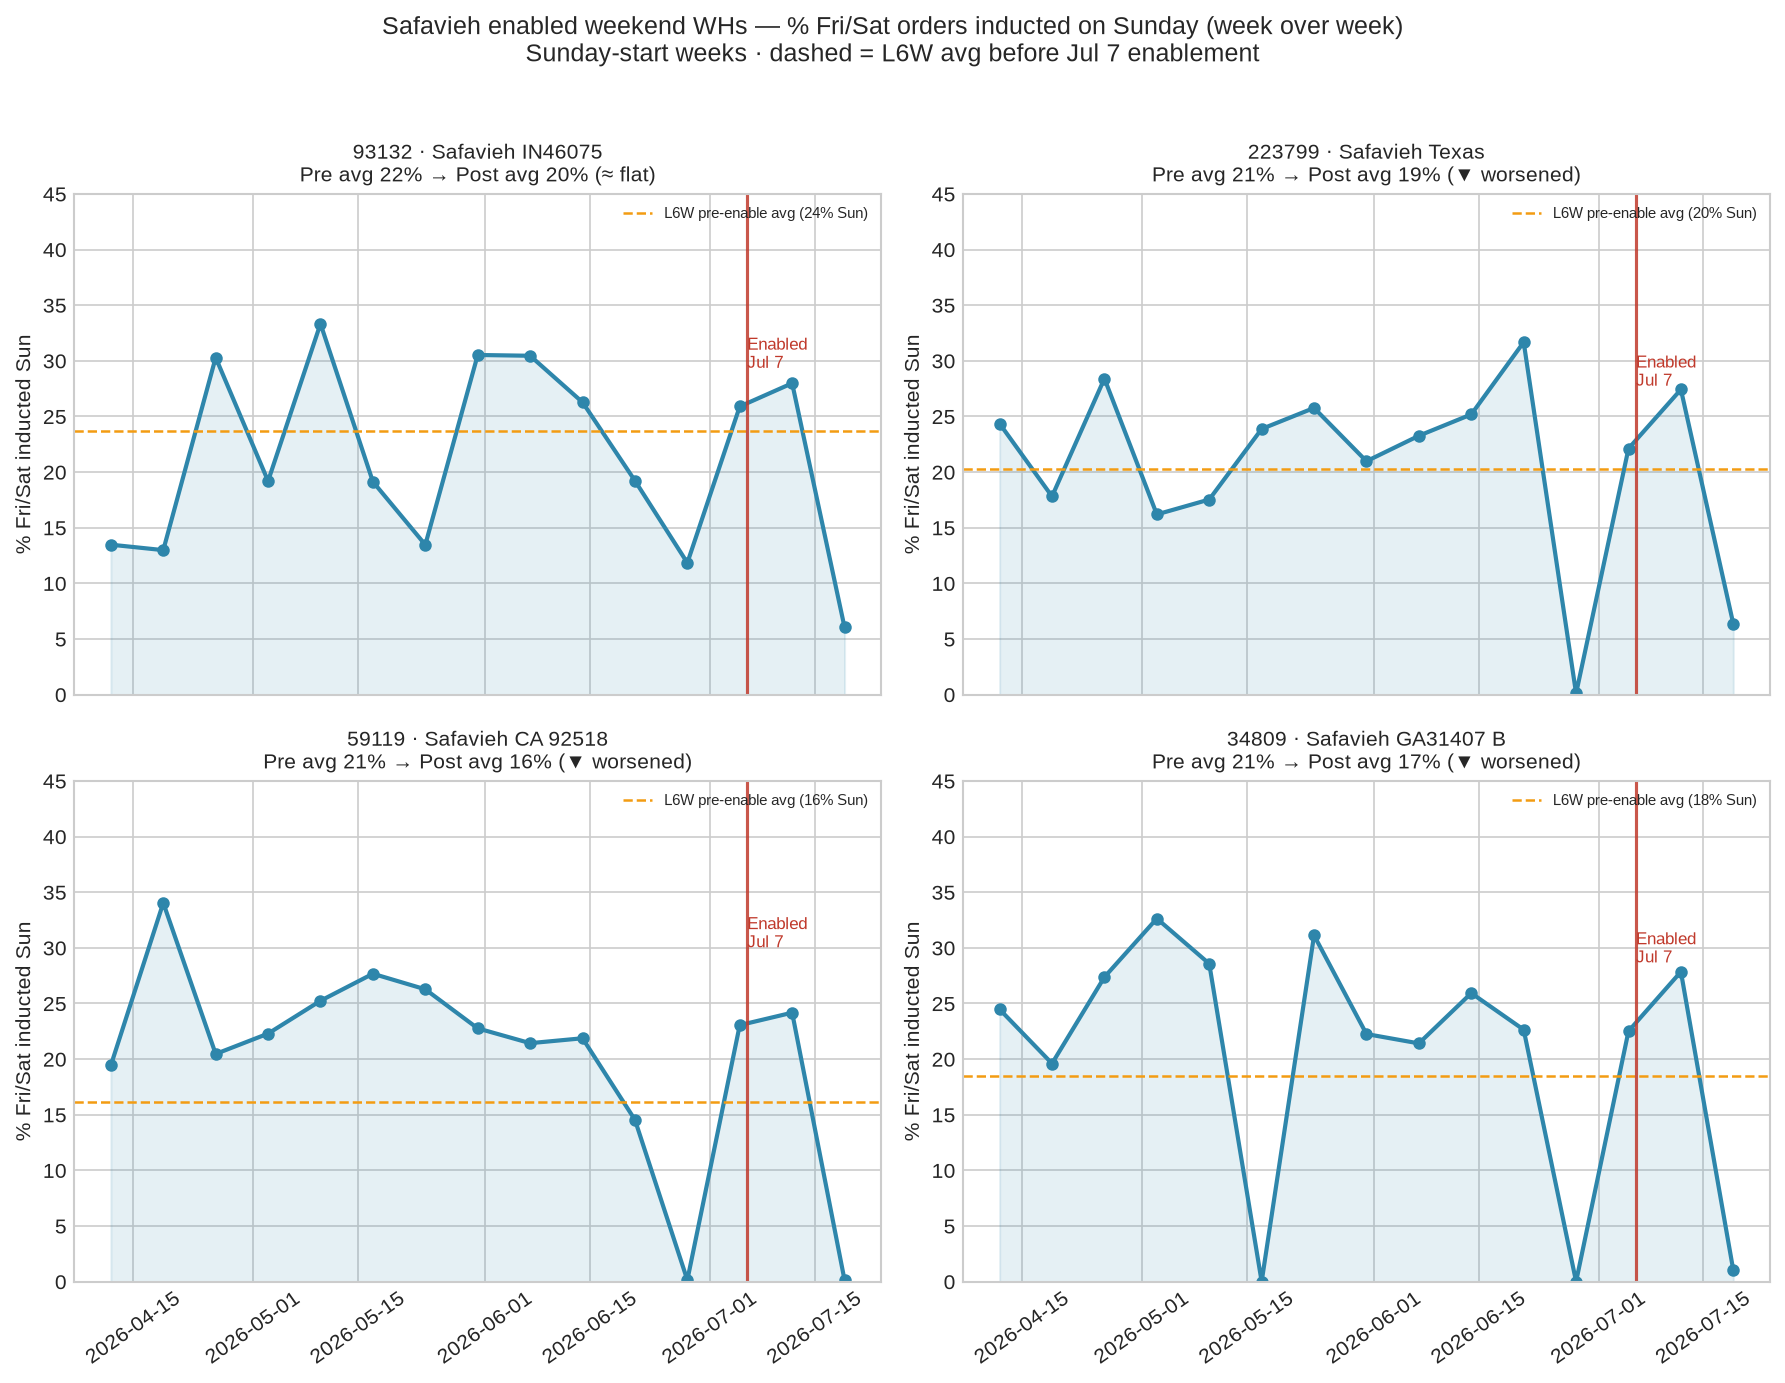
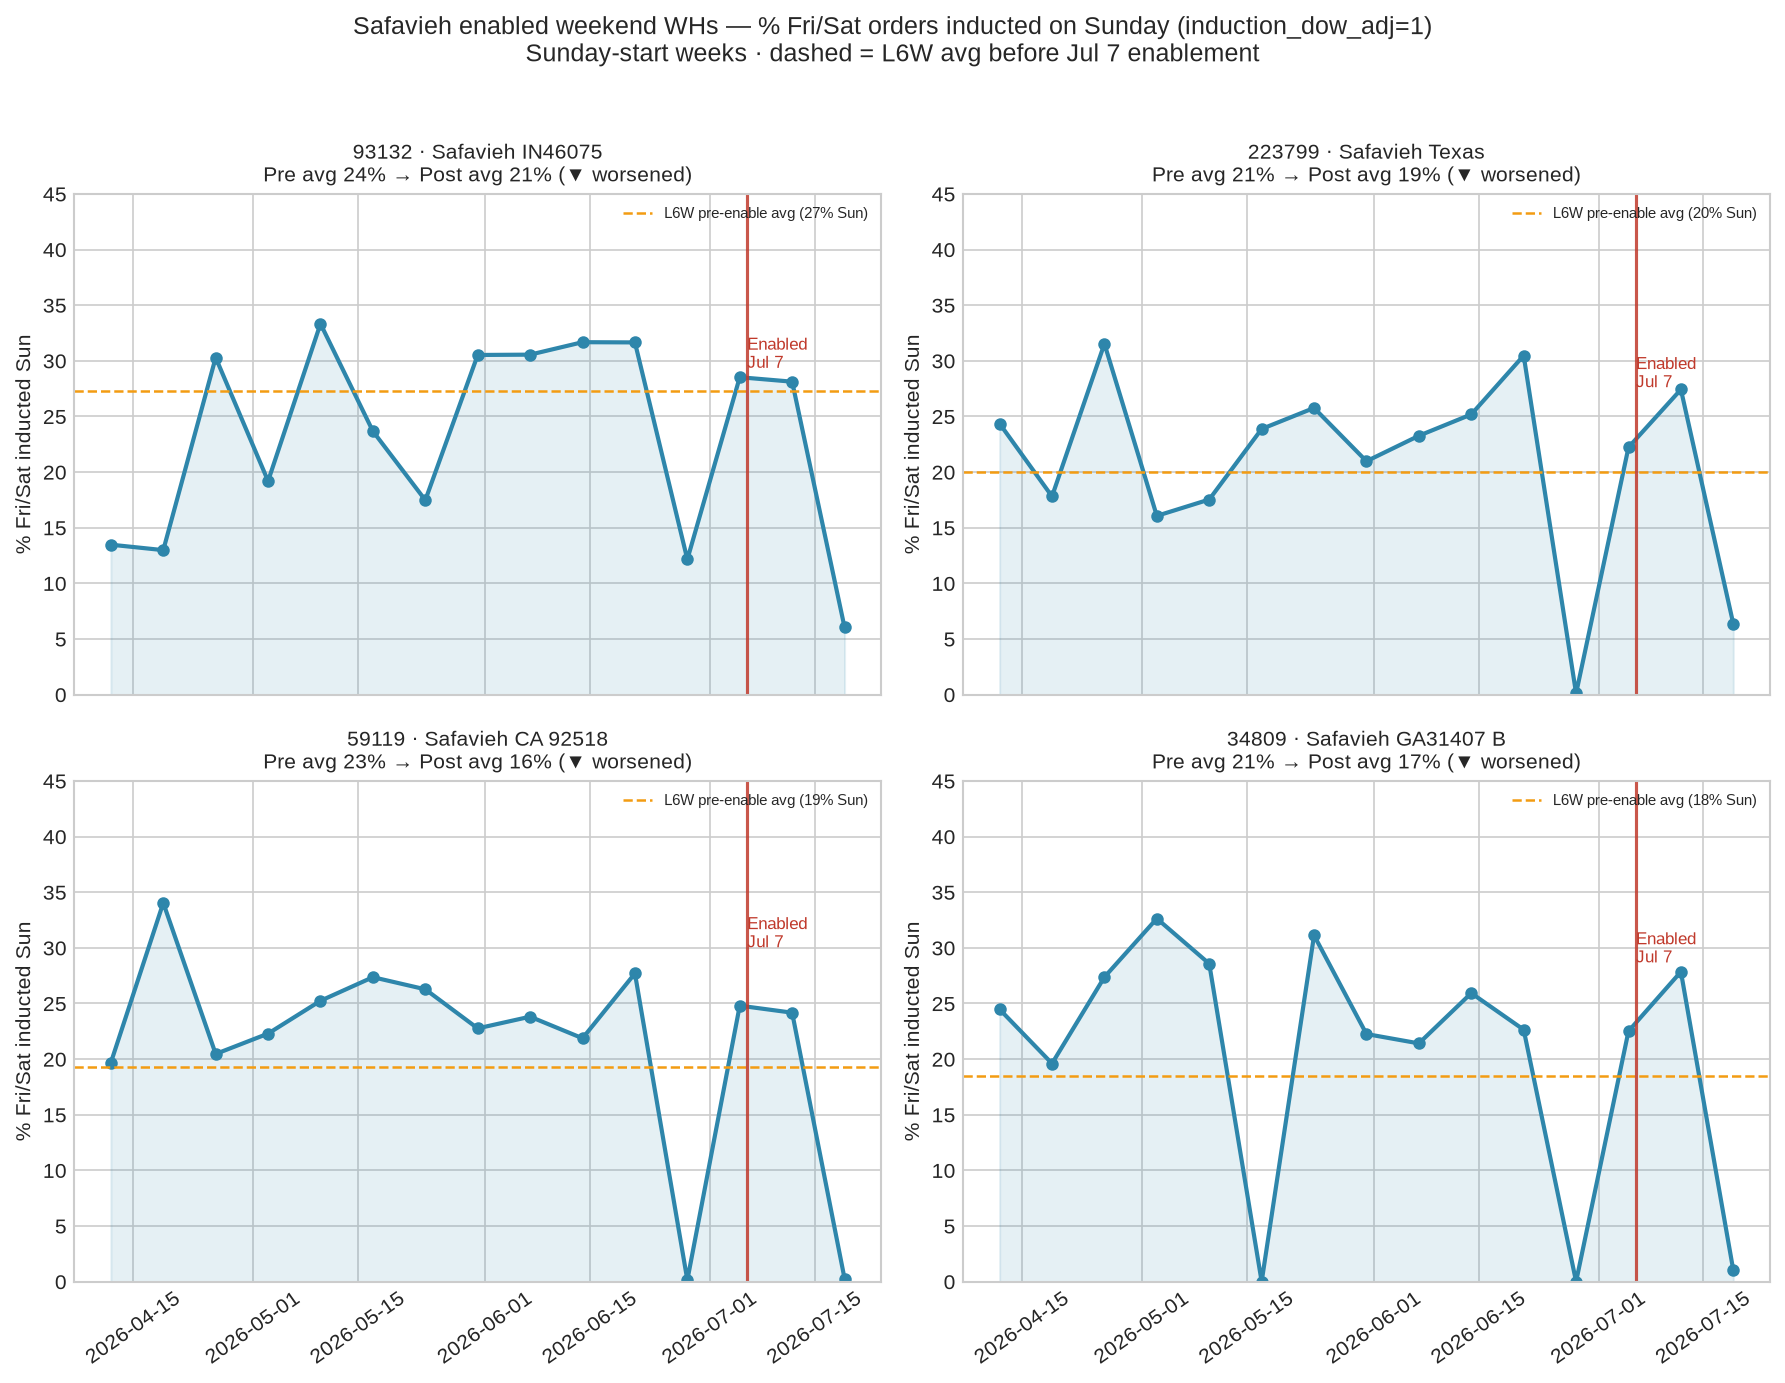
Fix induction_dow_adj convention: Sunday=1, Saturday=7
Update Safavieh weekend/Sunday SQL, chart scripts, and HVE docs to use
induction_dow_adj Sun=1 / Sat=7 (weekend IN (1,7)), not ISO adj=7 for Sunday.
Regenerate enabled-WH CSVs and charts 15-19 with corrected metrics.

diff --git a/scripts/chart_safavieh_enabled_wh_pre_post.py b/scripts/chart_safavieh_enabled_wh_pre_post.py
@@ -57,15 +57,15 @@ def chart_pre_post_comparison(df: pd.DataFrame) -> None:
         post_sub = post[post["supplier_id"] == sid].sort_values("week_start")
         post_sub["week_start"] = pd.to_datetime(post_sub["week_start"])
 
-        pre_sun = p["pct_sun_adj7"] * 100
-        pre_wk = p["pct_weekend_adj67"] * 100
-        post_sun = post_sub["pct_sun_adj7"].mean() * 100 if len(post_sub) else 0
-        post_wk = post_sub["pct_weekend_adj67"].mean() * 100 if len(post_sub) else 0
+        pre_sun = p["pct_sun_adj1"] * 100
+        pre_wk = p["pct_weekend_adj17"] * 100
+        post_sun = post_sub["pct_sun_adj1"].mean() * 100 if len(post_sub) else 0
+        post_wk = post_sub["pct_weekend_adj17"].mean() * 100 if len(post_sub) else 0
 
         x = [0, 1]
         width = 0.35
-        ax.bar(x[0] - width / 2, pre_sun, width, label="Sun adj=7", color=ORANGE)
-        ax.bar(x[0] + width / 2, pre_wk, width, label="Weekend adj 6–7", color=ACCENT)
+        ax.bar(x[0] - width / 2, pre_sun, width, label="Sun adj=1", color=ORANGE)
+        ax.bar(x[0] + width / 2, pre_wk, width, label="Weekend adj 1+7", color=ACCENT)
         ax.bar(x[1] - width / 2, post_sun, width, color=ORANGE, alpha=0.85)
         ax.bar(x[1] + width / 2, post_wk, width, color=ACCENT, alpha=0.85)
 
@@ -79,8 +79,8 @@ def chart_pre_post_comparison(df: pd.DataFrame) -> None:
         ax.set_ylim(0, max(55, pre_wk + 10, post_wk + 10))
         ax.set_title(
             f"{sid} · {name}\n"
-            f"Pre: n={int(p['fri_sat_vol']):,} · Sun adj7={int(p['sun_adj7_vol']):,} · "
-            f"Wknd={int(p['weekend_adj67_vol']):,}",
+            f"Pre: n={int(p['fri_sat_vol']):,} · Sun adj1={int(p['sun_adj1_vol']):,} · "
+            f"Wknd={int(p['weekend_adj17_vol']):,}",
             fontsize=9,
         )
 
@@ -88,7 +88,7 @@ def chart_pre_post_comparison(df: pd.DataFrame) -> None:
     fig.legend(handles, labels, loc="upper center", ncol=2, bbox_to_anchor=(0.5, 1.02))
     fig.suptitle(
         "Safavieh enabled WHs — induction_dow_adj metrics (Fri/Sat placed)\n"
-        "Sun = induction_dow_adj 7 · Weekend = induction_dow_adj 6 or 7",
+        "Sun = induction_dow_adj 1 · Sat = 7 · Weekend = induction_dow_adj 1 or 7",
         fontsize=12,
         y=1.06,
     )
@@ -114,24 +114,24 @@ def chart_post_weekly_with_pre_line(df: pd.DataFrame) -> None:
 
         ax.plot(
             sub["week_start"],
-            sub["pct_sun_adj7"] * 100,
+            sub["pct_sun_adj1"] * 100,
             marker="o",
             color=ORANGE,
             linewidth=2,
-            label="Sun adj=7 (weekly)",
+            label="Sun adj=1 (weekly)",
         )
         ax.plot(
             sub["week_start"],
-            sub["pct_weekend_adj67"] * 100,
+            sub["pct_weekend_adj17"] * 100,
             marker="s",
             color=ACCENT,
             linewidth=2,
-            label="Weekend adj 6–7 (weekly)",
+            label="Weekend adj 1+7 (weekly)",
         )
-        ax.axhline(p["pct_sun_adj7"] * 100, color=ORANGE, linestyle="--", alpha=0.7,
-                   label=f"Pre Sun ref ({p['pct_sun_adj7']*100:.1f}%)")
-        ax.axhline(p["pct_weekend_adj67"] * 100, color=ACCENT, linestyle="--", alpha=0.7,
-                   label=f"Pre wknd ref ({p['pct_weekend_adj67']*100:.1f}%)")
+        ax.axhline(p["pct_sun_adj1"] * 100, color=ORANGE, linestyle="--", alpha=0.7,
+                   label=f"Pre Sun ref ({p['pct_sun_adj1']*100:.1f}%)")
+        ax.axhline(p["pct_weekend_adj17"] * 100, color=ACCENT, linestyle="--", alpha=0.7,
+                   label=f"Pre wknd ref ({p['pct_weekend_adj17']*100:.1f}%)")
         ax.axvline(pd.Timestamp("2026-07-06"), color=RED, linewidth=1.2, alpha=0.8)
         ax.set_title(f"{sid} · {name}", fontsize=10)
         ax.set_ylabel("% of Fri/Sat orders")
@@ -154,12 +154,12 @@ def chart_network_pre_post_bars(df: pd.DataFrame) -> None:
     pre = df[df["period"] == "pre_enable"]
     post = df[df["period"] == "post_enable_weekly"]
 
-    pre_sun = pre["sun_adj7_vol"].sum() / pre["fri_sat_vol"].sum() * 100
-    pre_wk = pre["weekend_adj67_vol"].sum() / pre["fri_sat_vol"].sum() * 100
-    post_sun = post["sun_adj7_vol"].sum() / post["fri_sat_vol"].sum() * 100
-    post_wk = post["weekend_adj67_vol"].sum() / post["fri_sat_vol"].sum() * 100
+    pre_sun = pre["sun_adj1_vol"].sum() / pre["fri_sat_vol"].sum() * 100
+    pre_wk = pre["weekend_adj17_vol"].sum() / pre["fri_sat_vol"].sum() * 100
+    post_sun = post["sun_adj1_vol"].sum() / post["fri_sat_vol"].sum() * 100
+    post_wk = post["weekend_adj17_vol"].sum() / post["fri_sat_vol"].sum() * 100
 
-    tiers = ["Sun adj=7", "Weekend adj 6–7"]
+    tiers = ["Sun adj=1", "Weekend adj 1+7"]
     pre_vals = [pre_sun, pre_wk]
     post_vals = [post_sun, post_wk]
 
@@ -192,23 +192,23 @@ def main() -> None:
     print(f"Saved {csv_path}")
 
     pre = df[df["period"] == "pre_enable"]
-    print("\n=== PRE 5/31–7/4 (induction_dow_adj) ===")
+    print("\n=== PRE 5/31–7/4 (induction_dow_adj: Sun=1, Sat=7) ===")
     print(
         pre[
             [
                 "supplier_id",
                 "su_name",
                 "fri_sat_vol",
-                "sun_adj7_vol",
-                "weekend_adj67_vol",
-                "pct_sun_adj7",
-                "pct_weekend_adj67",
+                "sun_adj1_vol",
+                "weekend_adj17_vol",
+                "pct_sun_adj1",
+                "pct_weekend_adj17",
             ]
         ].to_string(index=False)
     )
-    net_pre_sun = pre["sun_adj7_vol"].sum() / pre["fri_sat_vol"].sum() * 100
-    net_pre_wk = pre["weekend_adj67_vol"].sum() / pre["fri_sat_vol"].sum() * 100
-    print(f"Network combined: Sun adj7={net_pre_sun:.2f}%  Weekend adj67={net_pre_wk:.2f}%")
+    net_pre_sun = pre["sun_adj1_vol"].sum() / pre["fri_sat_vol"].sum() * 100
+    net_pre_wk = pre["weekend_adj17_vol"].sum() / pre["fri_sat_vol"].sum() * 100
+    print(f"Network combined: Sun adj1={net_pre_sun:.2f}%  Weekend adj17={net_pre_wk:.2f}%")
 
     chart_pre_post_comparison(df)
     chart_post_weekly_with_pre_line(df)

diff --git a/scripts/chart_safavieh_enabled_wh_weekly.py b/scripts/chart_safavieh_enabled_wh_weekly.py
@@ -59,7 +59,7 @@ def chart_weekly_sunday_trend(df: pd.DataFrame) -> None:
             ax.set_title(f"{sid} · {name} (no data)")
             continue
 
-        pct = sub["pct_sun_induct"] * 100
+        pct = sub["pct_sun_adj1"] * 100
         ax.plot(sub["week_start"], pct, marker="o", color=ACCENT, linewidth=2, markersize=5)
         ax.fill_between(sub["week_start"], pct, alpha=0.12, color=ACCENT)
 
@@ -81,8 +81,8 @@ def chart_weekly_sunday_trend(df: pd.DataFrame) -> None:
 
         post = sub[sub["post_enable_week"] == 1]
         pre = sub[sub["post_enable_week"] == 0]
-        pre_avg = pre["pct_sun_induct"].mean() * 100 if len(pre) else 0
-        post_avg = post["pct_sun_induct"].mean() * 100 if len(post) else 0
+        pre_avg = pre["pct_sun_adj1"].mean() * 100 if len(pre) else 0
+        post_avg = post["pct_sun_adj1"].mean() * 100 if len(post) else 0
         delta = post_avg - pre_avg
         trend = "▼ worsened" if delta < -2 else ("▲ improved" if delta > 2 else "≈ flat")
 
@@ -98,7 +98,7 @@ def chart_weekly_sunday_trend(df: pd.DataFrame) -> None:
             if row["fri_sat_vol"] < 80:
                 ax.annotate(
                     "low n",
-                    (row["week_start"], row["pct_sun_induct"] * 100),
+                    (row["week_start"], row["pct_sun_adj1"] * 100),
                     fontsize=6,
                     color=GRAY,
                     ha="center",
@@ -109,7 +109,7 @@ def chart_weekly_sunday_trend(df: pd.DataFrame) -> None:
     for ax in axes[2:]:
         ax.tick_params(axis="x", rotation=35)
     fig.suptitle(
-        "Safavieh enabled weekend WHs — % Fri/Sat orders inducted on Sunday (week over week)\n"
+        "Safavieh enabled weekend WHs — % Fri/Sat orders inducted on Sunday (induction_dow_adj=1)\n"
         "Sunday-start weeks · dashed = L6W avg before Jul 7 enablement",
         fontsize=12,
         y=1.02,
@@ -131,7 +131,7 @@ def chart_weekly_weekend_trend(df: pd.DataFrame) -> None:
 
     for ax, (sid, name) in zip(axes, WAREHOUSES):
         sub = df[df["supplier_id"] == sid].sort_values("week_start")
-        pct = sub["pct_weekend_induct"] * 100
+        pct = sub["pct_weekend_adj17"] * 100
         ax.plot(sub["week_start"], pct, marker="o", color=NAVY, linewidth=2, markersize=5)
         l6w = sub["l6w_pre_pct_weekend"].iloc[0]
         if pd.notna(l6w):
@@ -139,15 +139,15 @@ def chart_weekly_weekend_trend(df: pd.DataFrame) -> None:
                        label=f"L6W pre-enable ({l6w*100:.0f}%)")
         ax.axhline(70, color=GREEN, linestyle=":", linewidth=1, alpha=0.7, label="70% enable threshold")
         ax.axvline(enable_week, color=RED, linestyle="-", linewidth=1.5, alpha=0.85)
-        post_avg = sub[sub["post_enable_week"] == 1]["pct_weekend_induct"].mean() * 100
-        pre_avg = sub[sub["post_enable_week"] == 0]["pct_weekend_induct"].mean() * 100
+        post_avg = sub[sub["post_enable_week"] == 1]["pct_weekend_adj17"].mean() * 100
+        pre_avg = sub[sub["post_enable_week"] == 0]["pct_weekend_adj17"].mean() * 100
         ax.set_title(f"{sid} · {name}\nWeekend Sat+Sun: pre {pre_avg:.0f}% → post {post_avg:.0f}%", fontsize=10)
         ax.set_ylabel("% Fri/Sat inducted Sat/Sun")
         ax.set_ylim(0, 85)
         ax.legend(loc="upper right", fontsize=7)
 
     fig.suptitle(
-        "Safavieh enabled WHs — % Fri/Sat inducted Sat or Sun (enablement metric)",
+        "Safavieh enabled WHs — % Fri/Sat inducted Sat/Sun (induction_dow_adj 7 or 1)",
         fontsize=12,
         y=1.02,
     )

diff --git a/docs/small_parcel/HVE_perf_Monitoring.md b/docs/small_parcel/HVE_perf_Monitoring.md
@@ -110,7 +110,7 @@ Use this reference for natural-language data pull requests against the Small Par
 | `SU_FR` | INT | Supplier Fill Rate (1/0): ASN on or before `msbd_su` |
 | `induction_date_lidd` | DATE | Induction date of the order |
 | `induction_date_WCP_local` | DATE | Backup induction date |
-| `induction_dow_adj` | INT | Adjusted day of week for induction (holidays/weekends) |
+| `induction_dow_adj` | INT | Adjusted day of week for induction (holidays/weekends). **Not ISO:** Sunday = `1`, Saturday = `7` (same Sun–Sat numbering as `order_dow_supplier_local` in toolkit). Weekend induction = `IN (1, 7)`. Do not use ISO Mon=1 … Sun=7 for this column |
 | `carrier_first_induction_date_time` | DATETIME | Timestamp for carrier network induction scan |
 | `carrier_first_induction_WCP_local` | DATETIME | Backup induction scan timestamp |
 | `delivery_date` | DATE | Delivery date of the order |
@@ -253,9 +253,19 @@ ORDER BY late_orders DESC
 LIMIT 10
 ```
 
+## Day-of-week conventions (important)
+
+| Column | Convention |
+|--------|------------|
+| `order_dow` | **ISO 8601:** Monday = 1 … Sunday = 7 |
+| `induction_dow_adj` | **Sun–Sat:** Sunday = 1 … Saturday = 7 (weekend = `IN (1, 7)`) |
+| `order_dow_supplier_local` (toolkit) | **Sun–Sat:** Sunday = 1 … Saturday = 7 |
+
+Fri/Sat **placed** orders use HVE `order_dow` (ISO): Friday = 5, Saturday = 6.
+
 ## Related: `toolkit_hourly_performance` day-of-week
 
-`order_dow_supplier_local` uses a **different** convention than HVE `order_dow`:
+`order_dow_supplier_local` uses the **Sun–Sat** convention (same as `induction_dow_adj`), **not** ISO `order_dow`:
 
 | Value | Day |
 |------:|-----|

diff --git a/docs/small_parcel/weekend_shipping_supplier_analysis.md b/docs/small_parcel/weekend_shipping_supplier_analysis.md
@@ -2,7 +2,7 @@
 
 Generated: 2026-07-17
 
-Analysis window: last 6 weeks. Weekend ship = Fri/Sat placed orders inducted on Saturday or Sunday (`induction_dow_adj` 6 or 7).
+Analysis window: last 6 weeks. Weekend ship = Fri/Sat placed orders inducted on Saturday or Sunday (`induction_dow_adj` 1 or 7 — Sunday = 1, Saturday = 7).
 
 Rows: 648
 
